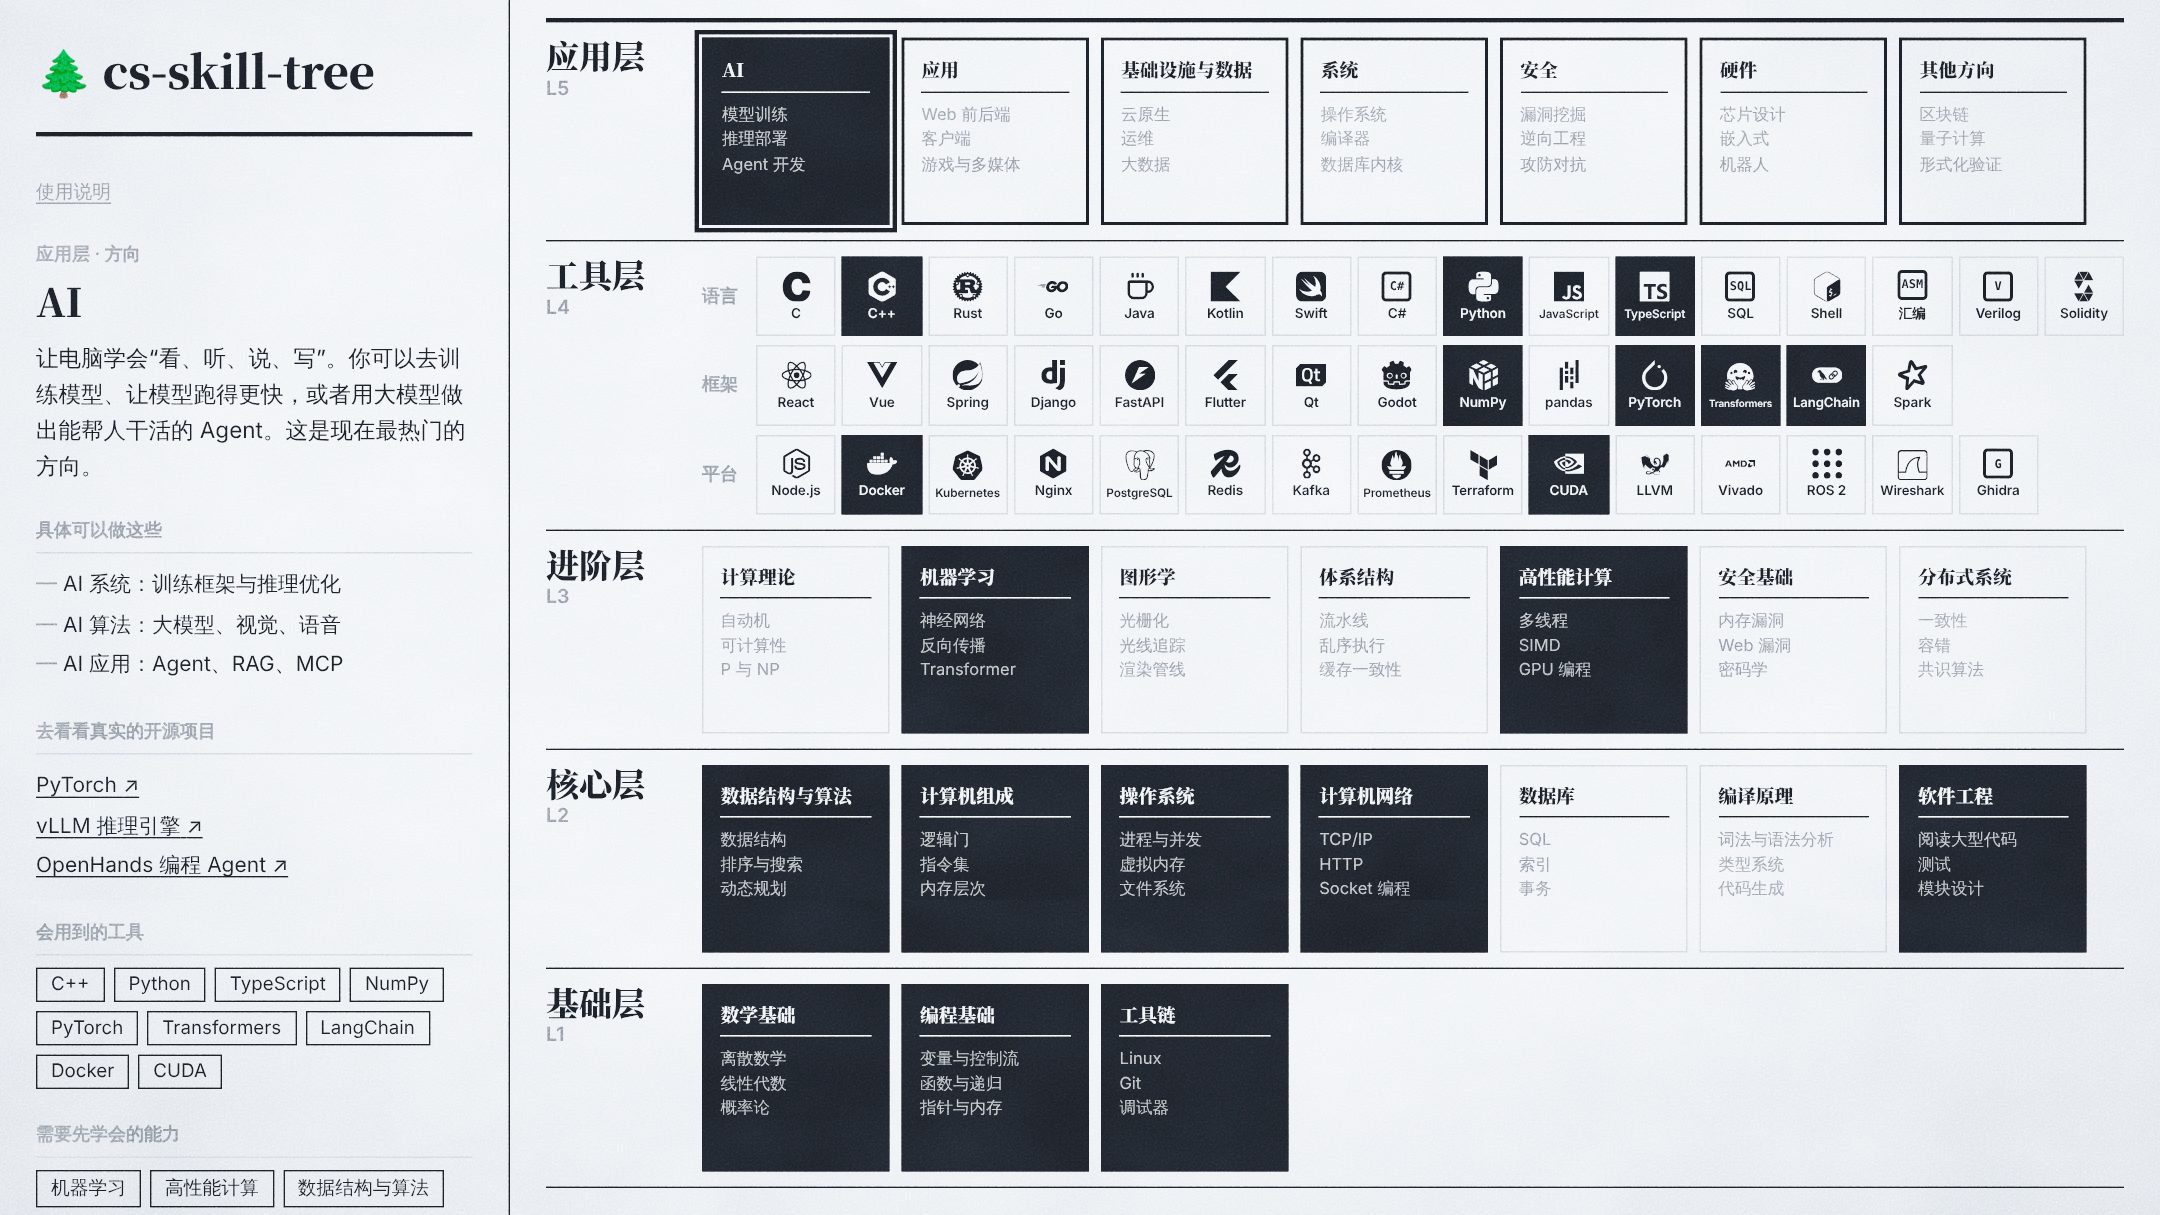
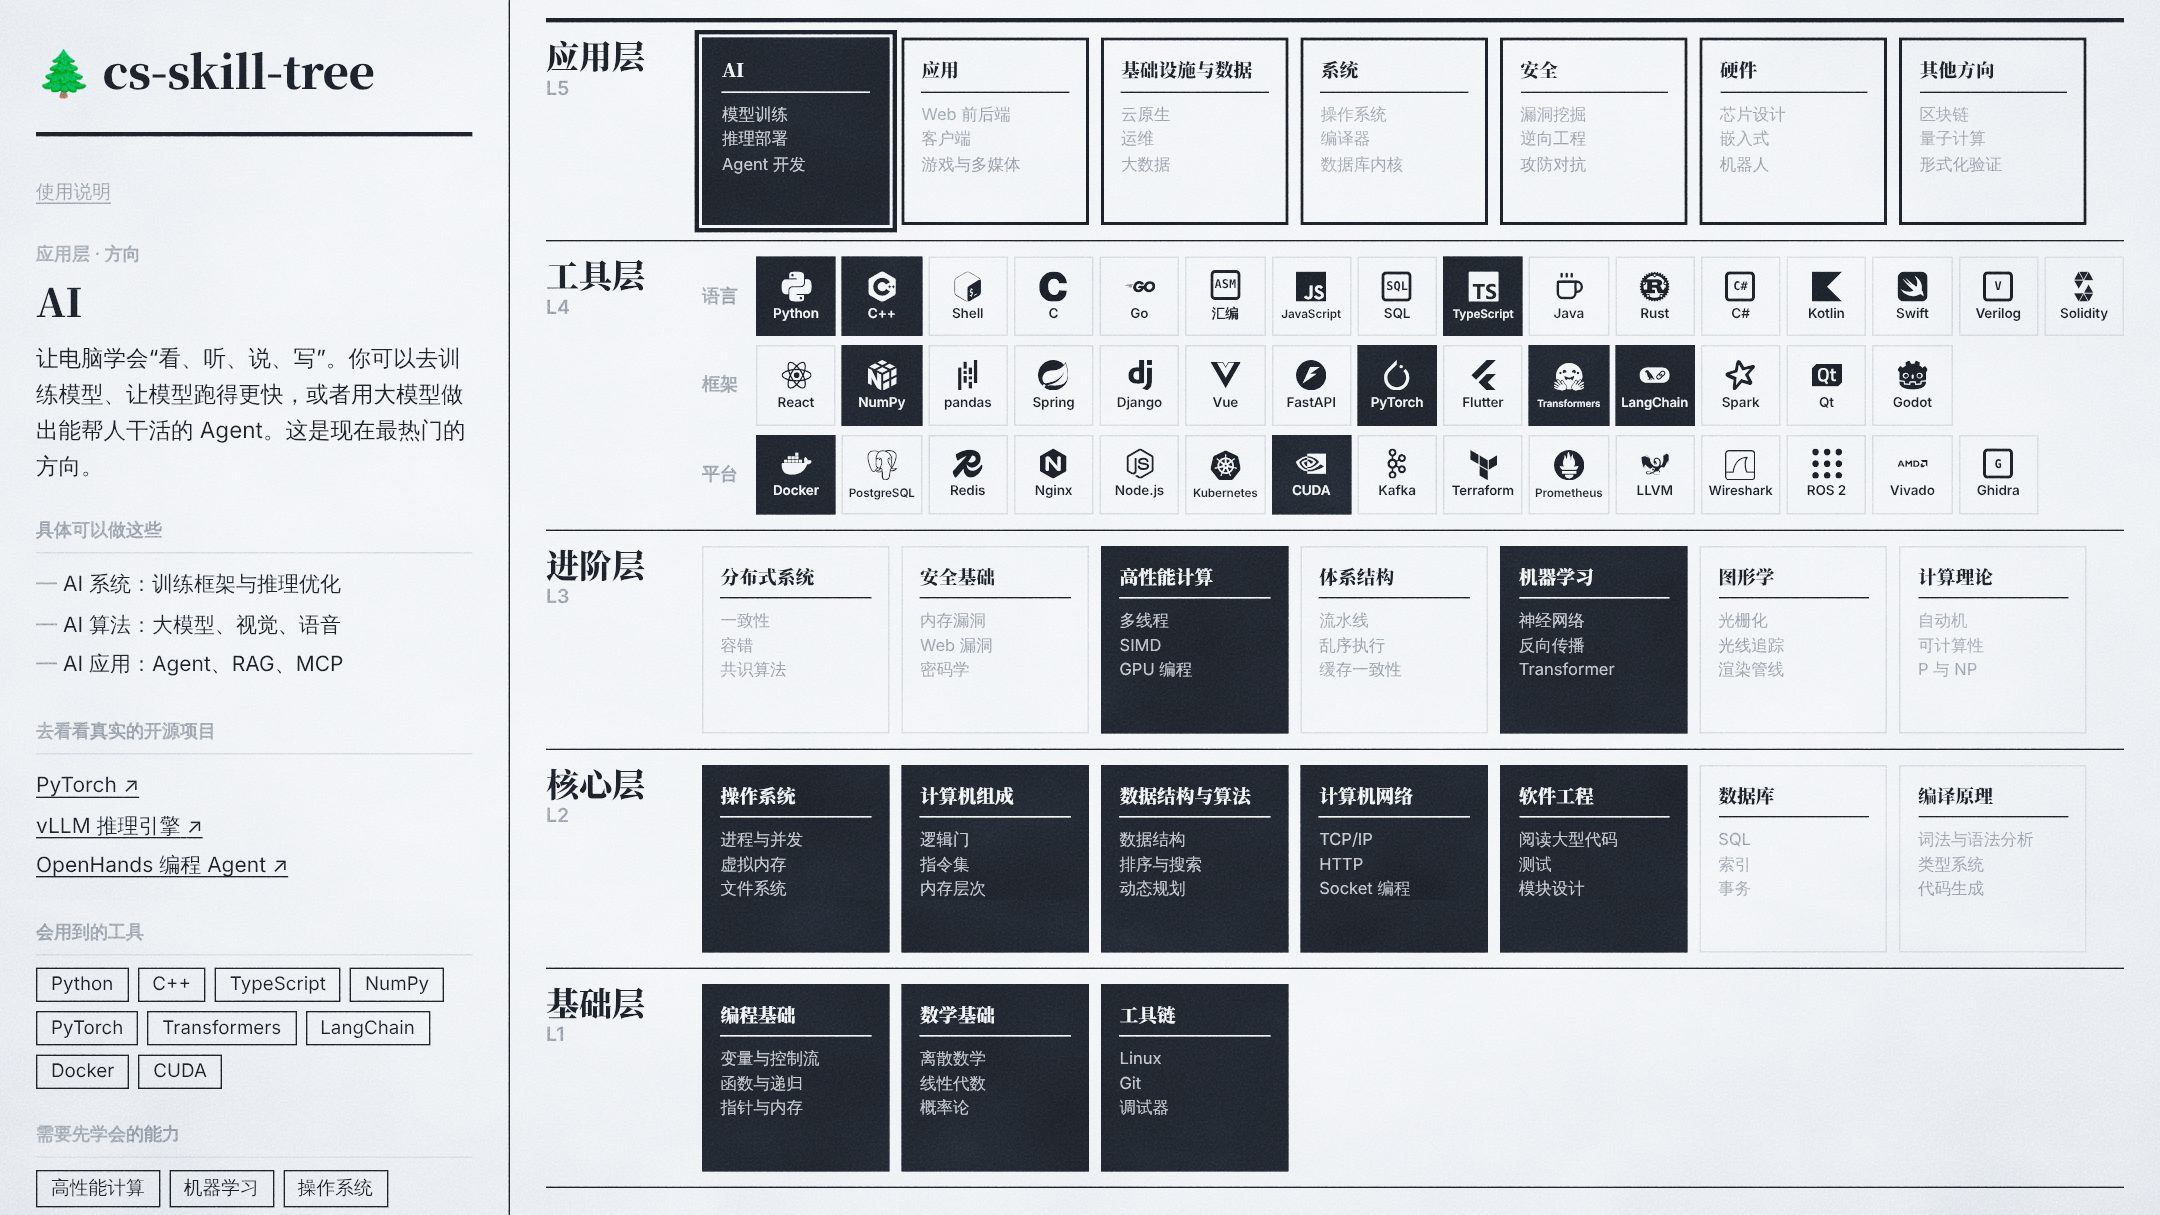
Order tools and ability blocks by demand and refresh the screenshot
Each tool group and ability layer is sorted by how many directions need
the item, with general popularity as the tie-breaker.

Claude-Session: https://claude.ai/code/session_01BR9ky9qSk1huWQ3kg6rSWt

diff --git a/src/data/roadmap.ts b/src/data/roadmap.ts
@@ -86,24 +86,25 @@ export const CATEGORIES: Category[] = [
 ]
 
 // 工具层：具体的语言、框架和平台。被应用层直接用到。
+// 工具层和能力块都按需求量排序：先看被几个方向用到，相同时按大众使用热度。
 export const TOOL_GROUPS: { name: string; tools: Tool[] }[] = [
   {
     name: '编程语言',
     tools: [
-      { id: 'c', name: 'C', org: '贝尔实验室' },
+      { id: 'python', name: 'Python', org: 'Python 基金会' },
       { id: 'cpp', name: 'C++', org: '贝尔实验室' },
-      { id: 'rust', name: 'Rust', org: 'Rust 基金会' },
+      { id: 'shell', name: 'Shell', org: 'GNU' },
+      { id: 'c', name: 'C', org: '贝尔实验室' },
       { id: 'go', name: 'Go', org: 'Google' },
+      { id: 'asm', name: '汇编', org: 'Intel / ARM' },
+      { id: 'javascript', name: 'JavaScript', org: 'Ecma' },
+      { id: 'sql', name: 'SQL', org: 'IBM' },
+      { id: 'typescript', name: 'TypeScript', org: 'Microsoft' },
       { id: 'java', name: 'Java', org: 'Oracle' },
+      { id: 'rust', name: 'Rust', org: 'Rust 基金会' },
+      { id: 'csharp', name: 'C#', org: 'Microsoft' },
       { id: 'kotlin', name: 'Kotlin', org: 'JetBrains' },
       { id: 'swift', name: 'Swift', org: 'Apple' },
-      { id: 'csharp', name: 'C#', org: 'Microsoft' },
-      { id: 'python', name: 'Python', org: 'Python 基金会' },
-      { id: 'javascript', name: 'JavaScript', org: 'Ecma' },
-      { id: 'typescript', name: 'TypeScript', org: 'Microsoft' },
-      { id: 'sql', name: 'SQL', org: 'IBM' },
-      { id: 'shell', name: 'Shell', org: 'GNU' },
-      { id: 'asm', name: '汇编', org: 'Intel / ARM' },
       { id: 'verilog', name: 'Verilog', org: 'IEEE' },
       { id: 'solidity', name: 'Solidity', org: '以太坊基金会' },
     ],
@@ -112,38 +113,38 @@ export const TOOL_GROUPS: { name: string; tools: Tool[] }[] = [
     name: '框架与库',
     tools: [
       { id: 'react', name: 'React', org: 'Meta' },
-      { id: 'vue', name: 'Vue', org: '尤雨溪' },
-      { id: 'spring', name: 'Spring', org: 'Broadcom' },
-      { id: 'django', name: 'Django', org: 'Django 基金会' },
-      { id: 'fastapi', name: 'FastAPI', org: '开源社区' },
-      { id: 'flutter', name: 'Flutter', org: 'Google' },
-      { id: 'qt', name: 'Qt', org: 'Qt Group' },
-      { id: 'godot', name: 'Godot', org: 'Godot 基金会' },
       { id: 'numpy', name: 'NumPy', org: 'NumFOCUS' },
       { id: 'pandas', name: 'pandas', org: 'NumFOCUS' },
+      { id: 'spring', name: 'Spring', org: 'Broadcom' },
+      { id: 'django', name: 'Django', org: 'Django 基金会' },
+      { id: 'vue', name: 'Vue', org: '尤雨溪' },
+      { id: 'fastapi', name: 'FastAPI', org: '开源社区' },
       { id: 'pytorch', name: 'PyTorch', org: 'PyTorch 基金会' },
+      { id: 'flutter', name: 'Flutter', org: 'Google' },
       { id: 'transformers', name: 'Transformers', org: 'Hugging Face' },
       { id: 'langchain', name: 'LangChain', org: 'LangChain' },
       { id: 'spark', name: 'Spark', org: 'Apache' },
+      { id: 'qt', name: 'Qt', org: 'Qt Group' },
+      { id: 'godot', name: 'Godot', org: 'Godot 基金会' },
     ],
   },
   {
     name: '平台与工具',
     tools: [
-      { id: 'nodejs', name: 'Node.js', org: 'OpenJS 基金会' },
       { id: 'docker', name: 'Docker', org: 'Docker' },
-      { id: 'k8s', name: 'Kubernetes', org: 'CNCF' },
-      { id: 'nginx', name: 'Nginx', org: 'F5' },
       { id: 'postgres', name: 'PostgreSQL', org: '开源社区' },
       { id: 'redis', name: 'Redis', org: 'Redis' },
-      { id: 'kafka', name: 'Kafka', org: 'Apache' },
-      { id: 'prometheus', name: 'Prometheus', org: 'CNCF' },
-      { id: 'terraform', name: 'Terraform', org: 'HashiCorp' },
+      { id: 'nginx', name: 'Nginx', org: 'F5' },
+      { id: 'nodejs', name: 'Node.js', org: 'OpenJS 基金会' },
+      { id: 'k8s', name: 'Kubernetes', org: 'CNCF' },
       { id: 'cuda', name: 'CUDA', org: 'NVIDIA' },
+      { id: 'kafka', name: 'Kafka', org: 'Apache' },
+      { id: 'terraform', name: 'Terraform', org: 'HashiCorp' },
+      { id: 'prometheus', name: 'Prometheus', org: 'CNCF' },
       { id: 'llvm', name: 'LLVM', org: 'LLVM 基金会' },
-      { id: 'vivado', name: 'Vivado', org: 'AMD' },
-      { id: 'ros', name: 'ROS 2', org: 'Open Robotics' },
       { id: 'wireshark', name: 'Wireshark', org: 'Wireshark 基金会' },
+      { id: 'ros', name: 'ROS 2', org: 'Open Robotics' },
+      { id: 'vivado', name: 'Vivado', org: 'AMD' },
       { id: 'ghidra', name: 'Ghidra', org: '美国 NSA' },
     ],
   },
@@ -154,32 +155,32 @@ export const LAYERS: { name: string; blocks: Block[] }[] = [
   {
     name: '进阶层',
     blocks: [
-      { id: 'theory', name: '计算理论', items: ['自动机', '可计算性', 'P 与 NP'], requires: ['math', 'dsa'] },
+      { id: 'distributed', name: '分布式系统', items: ['一致性', '容错', '共识算法'], requires: ['os', 'network', 'database'] },
+      { id: 'security', name: '安全基础', items: ['内存漏洞', 'Web 漏洞', '密码学'], requires: ['organization', 'os', 'network'] },
+      { id: 'hpc', name: '高性能计算', items: ['多线程', 'SIMD', 'GPU 编程'], requires: ['organization', 'os'] },
+      { id: 'architecture', name: '体系结构', items: ['流水线', '乱序执行', '缓存一致性'], requires: ['organization'] },
       { id: 'ml', name: '机器学习', items: ['神经网络', '反向传播', 'Transformer'], requires: ['math', 'dsa'] },
       { id: 'graphics', name: '图形学', items: ['光栅化', '光线追踪', '渲染管线'], requires: ['math', 'organization'] },
-      { id: 'architecture', name: '体系结构', items: ['流水线', '乱序执行', '缓存一致性'], requires: ['organization'] },
-      { id: 'hpc', name: '高性能计算', items: ['多线程', 'SIMD', 'GPU 编程'], requires: ['organization', 'os'] },
-      { id: 'security', name: '安全基础', items: ['内存漏洞', 'Web 漏洞', '密码学'], requires: ['organization', 'os', 'network'] },
-      { id: 'distributed', name: '分布式系统', items: ['一致性', '容错', '共识算法'], requires: ['os', 'network', 'database'] },
+      { id: 'theory', name: '计算理论', items: ['自动机', '可计算性', 'P 与 NP'], requires: ['math', 'dsa'] },
     ],
   },
   {
     name: '核心层',
     blocks: [
-      { id: 'dsa', name: '数据结构与算法', items: ['数据结构', '排序与搜索', '动态规划'], requires: ['math', 'programming'] },
-      { id: 'organization', name: '计算机组成', items: ['逻辑门', '指令集', '内存层次'], requires: ['programming'] },
       { id: 'os', name: '操作系统', items: ['进程与并发', '虚拟内存', '文件系统'], requires: ['organization'] },
+      { id: 'organization', name: '计算机组成', items: ['逻辑门', '指令集', '内存层次'], requires: ['programming'] },
+      { id: 'dsa', name: '数据结构与算法', items: ['数据结构', '排序与搜索', '动态规划'], requires: ['math', 'programming'] },
       { id: 'network', name: '计算机网络', items: ['TCP/IP', 'HTTP', 'Socket 编程'], requires: ['os'] },
+      { id: 'swe', name: '软件工程', items: ['阅读大型代码', '测试', '模块设计'], requires: ['programming', 'tooling'] },
       { id: 'database', name: '数据库', items: ['SQL', '索引', '事务'], requires: ['dsa', 'os'] },
       { id: 'compiler', name: '编译原理', items: ['词法与语法分析', '类型系统', '代码生成'], requires: ['dsa', 'organization'] },
-      { id: 'swe', name: '软件工程', items: ['阅读大型代码', '测试', '模块设计'], requires: ['programming', 'tooling'] },
     ],
   },
   {
     name: '基础层',
     blocks: [
-      { id: 'math', name: '数学基础', items: ['离散数学', '线性代数', '概率论'], requires: [] },
       { id: 'programming', name: '编程基础', items: ['变量与控制流', '函数与递归', '指针与内存'], requires: [] },
+      { id: 'math', name: '数学基础', items: ['离散数学', '线性代数', '概率论'], requires: [] },
       { id: 'tooling', name: '工具链', items: ['Linux', 'Git', '调试器'], requires: [] },
     ],
   },
